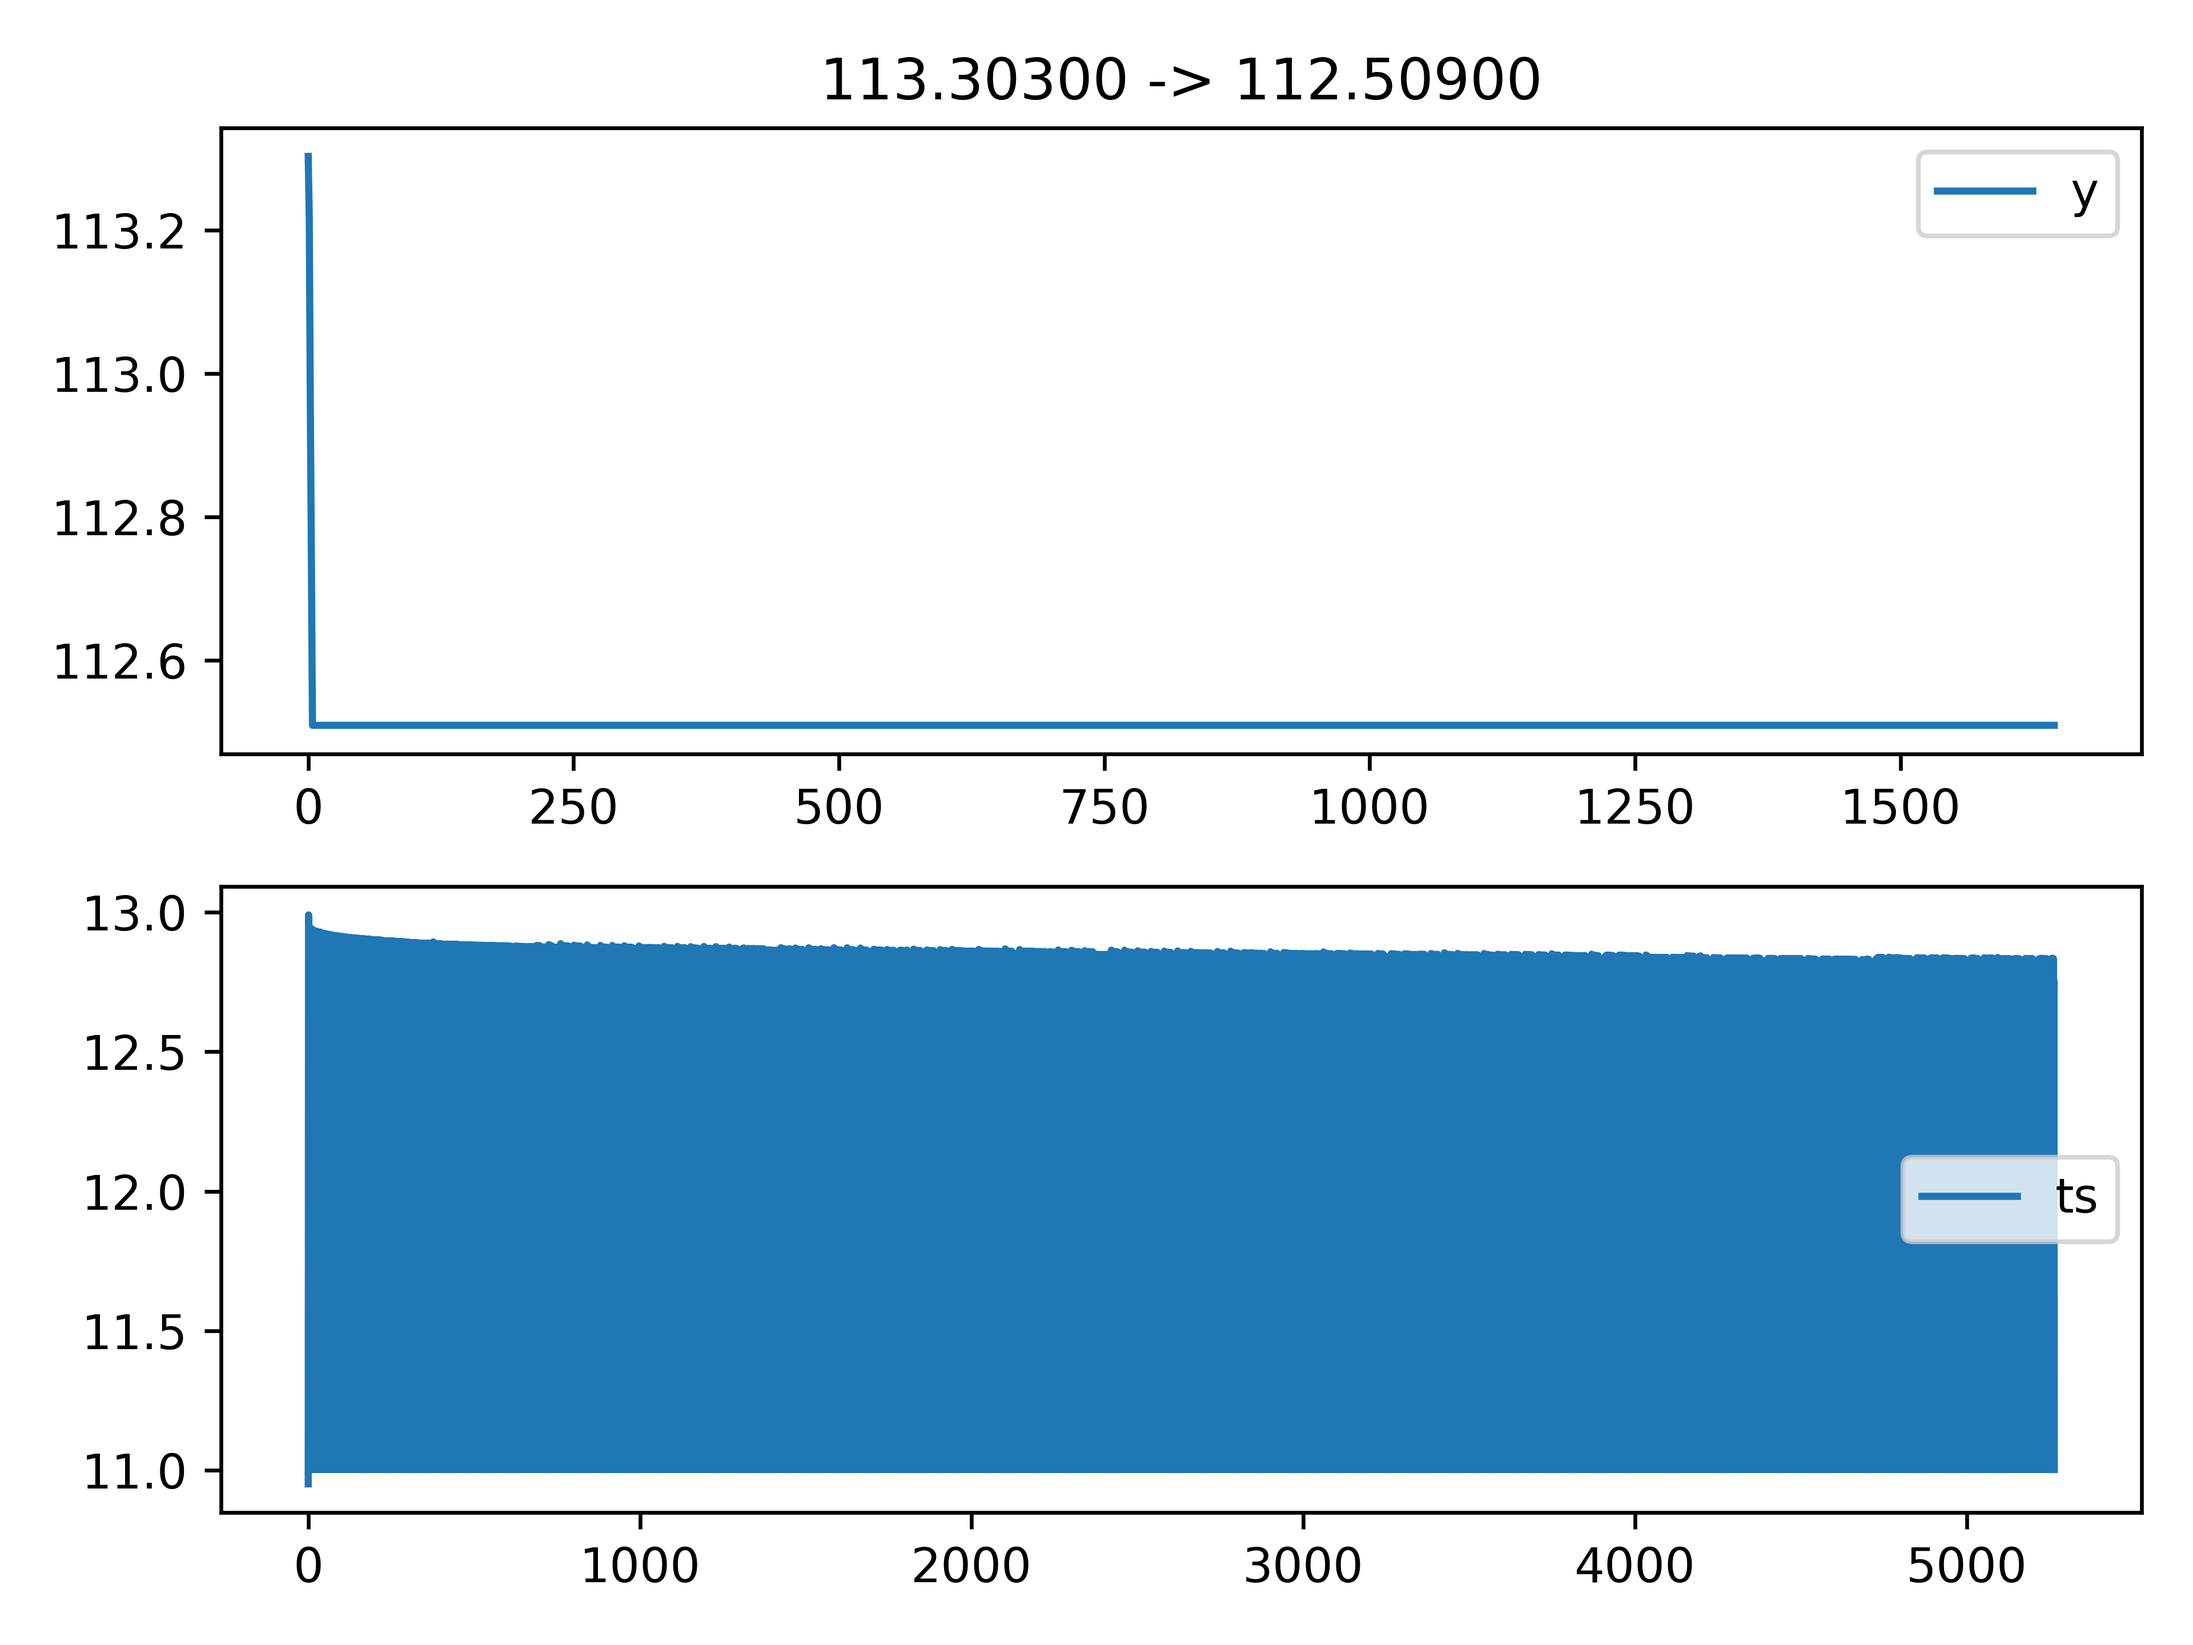
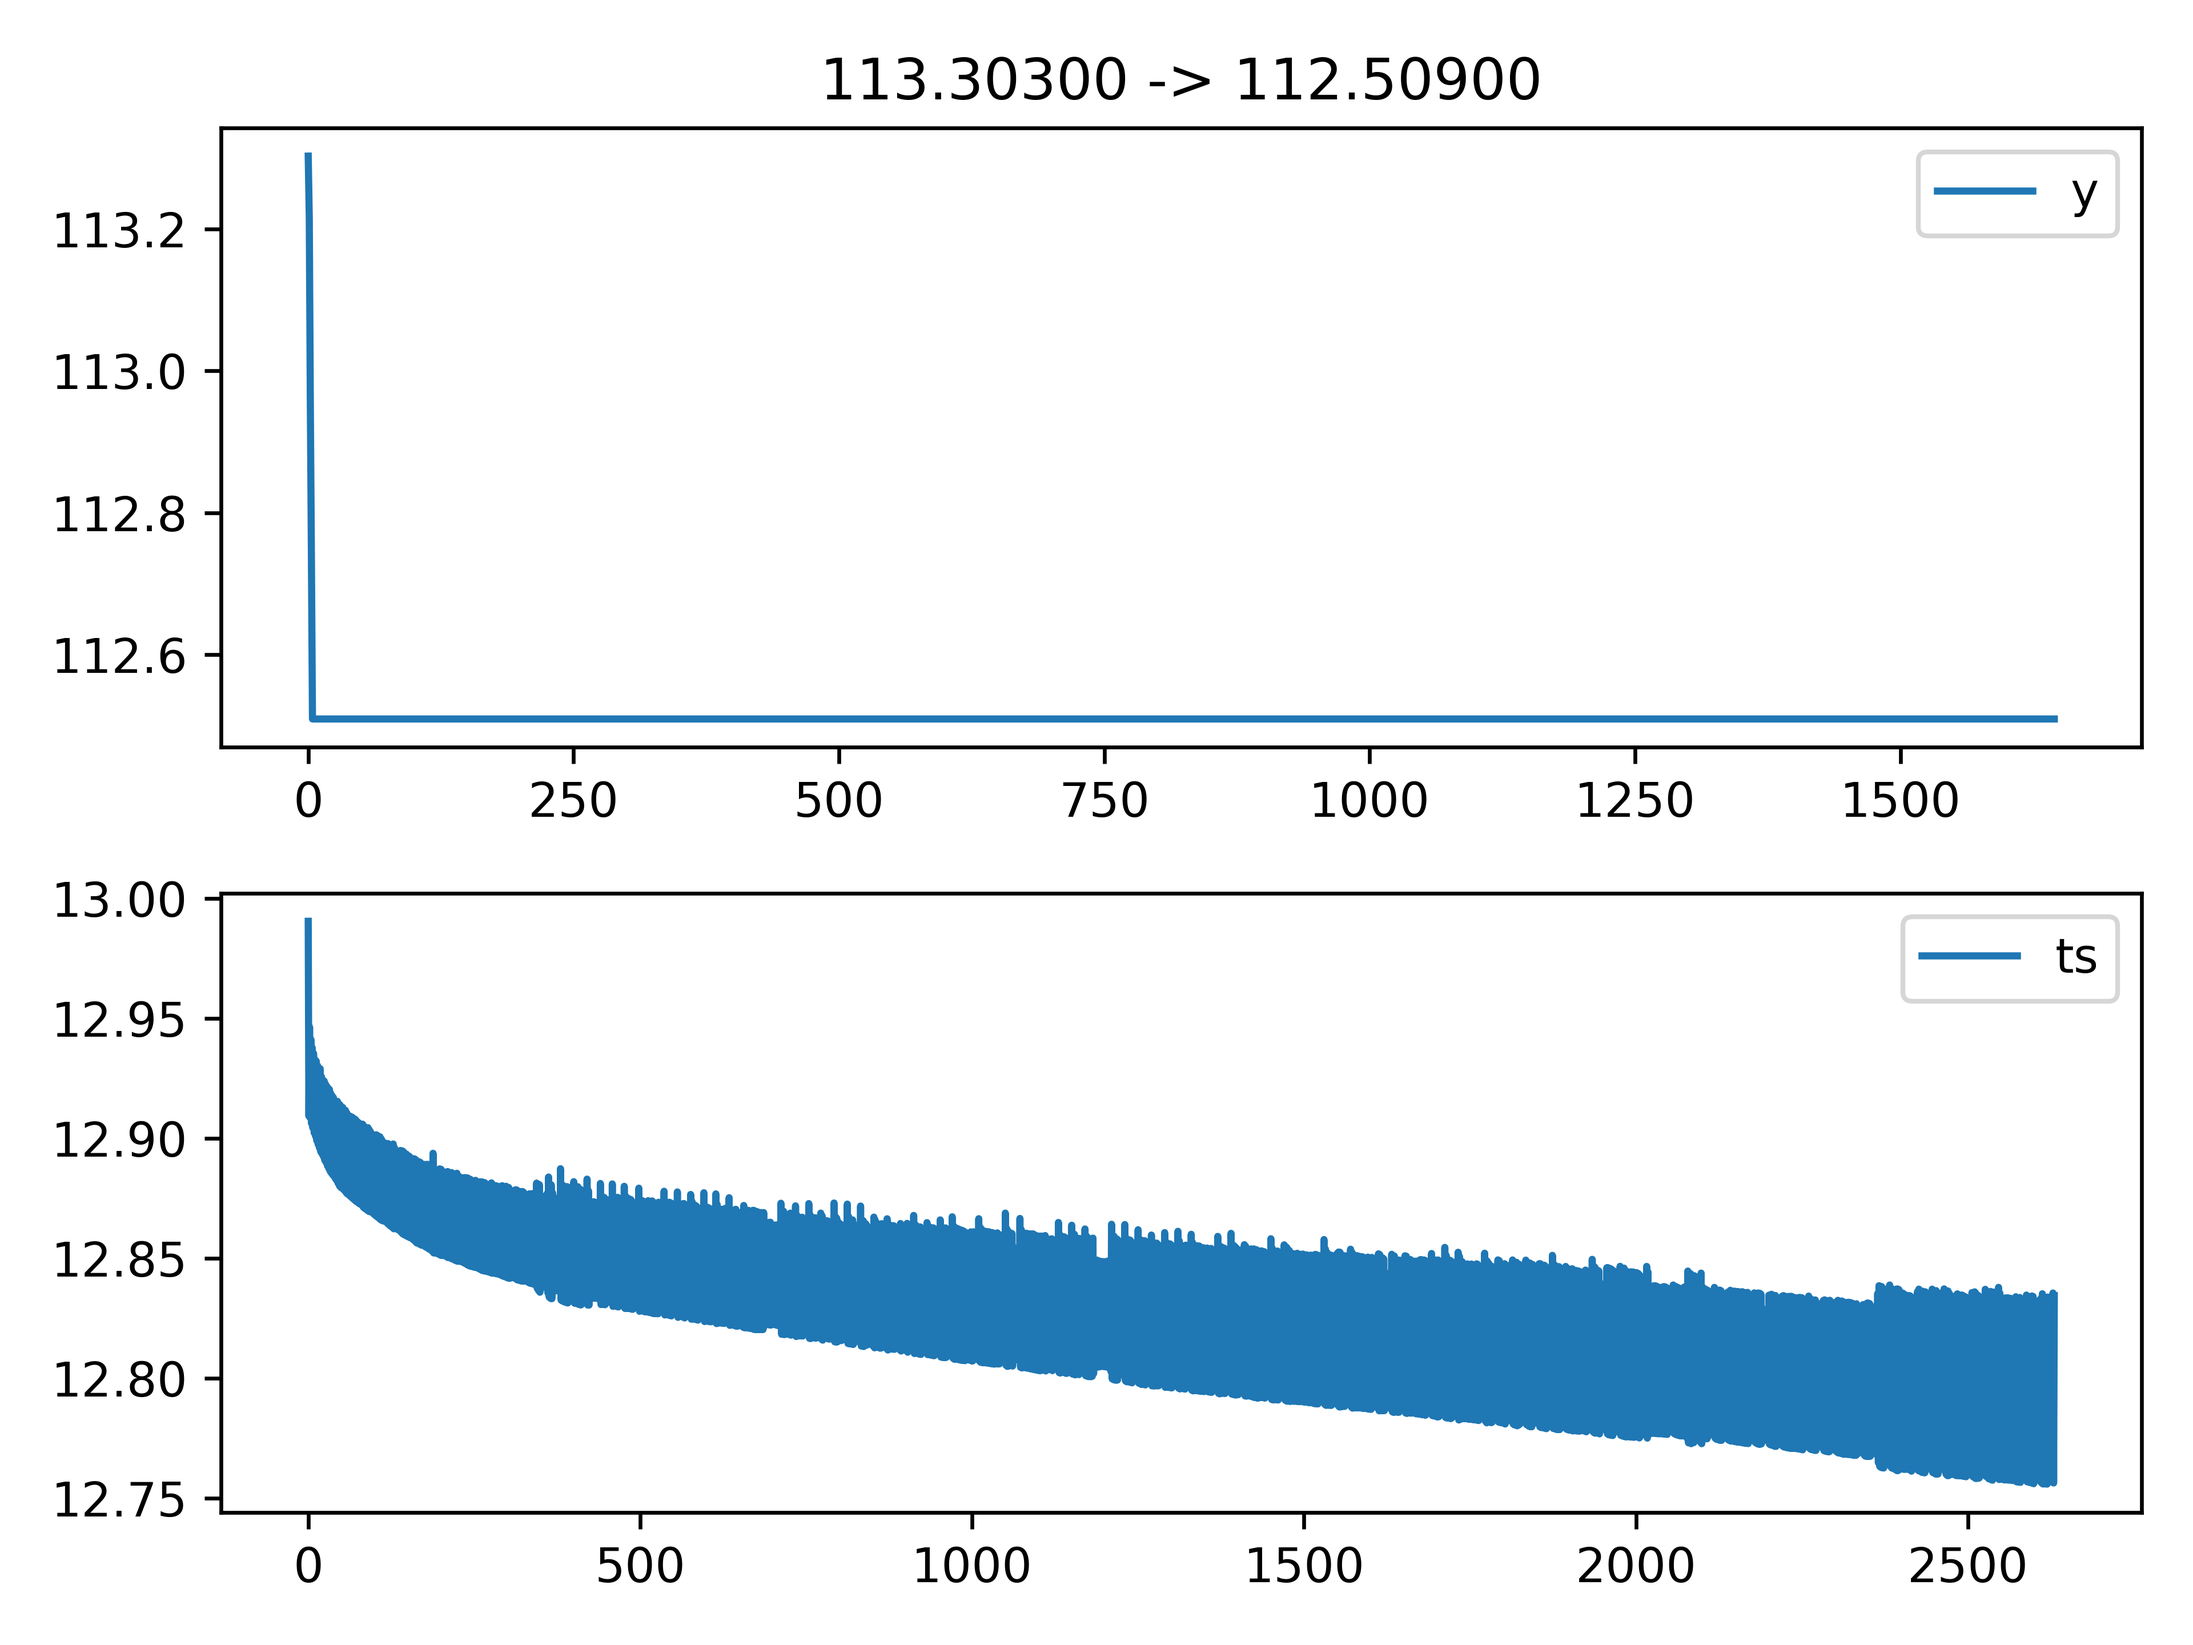
remove 静置 state, remove duplicated cid
score: 2.7473, rank: 33

diff --git a/lgb.py b/lgb.py
@@ -2,6 +2,8 @@
 # Author: Armit
 # Create Time: 2024/02/17
 
+from traceback import print_exc
+
 import lightgbm as lgb
 from lightgbm import Booster
 from sklearn.model_selection import KFold
@@ -16,32 +18,25 @@ LOG_DP = LOG_PATH / 'lgb'
 
 def make_feat_df(split:str, id:str) -> Tuple[DataFrame, List[str], str]:
   df_cyc, df_act = load_data(split, id)
-  if 'fix case M005':   # M005 最后的 ts 均为 0
-    if id == 'M005':
-      df_act = df_act[~((df_act['aid']==6) & (df_act['act']==0))]
   y = df_cyc['y'].to_numpy().round(N_PREC)
   df_joined = df_cyc.merge(df_act, how='inner', on='cid').sort_values(by=['cid', 'aid'])
   ts = df_joined['ts'].to_numpy().round(N_PREC)
   try:
-    n_ratio = len(ts) / len(y)
-    if n_ratio == N_ACTION_CYCLE:
-      ts = ts.reshape(-1, N_ACTION_CYCLE)
-    elif n_ratio == 3:  # M003 的第二个静置的 ts = 0
-      ts = ts.reshape(-1, 3)
-      ts = np.pad(ts, [(0, 0), (0, 1)])
+    ts = ts.reshape(-1, N_ACTION_CYCLE)
     assert len(y) == len(ts)
   except Exception as e:
-    print(f'>> length mismatch: len(ts) / len(y) = {len(ts)} / {len(y)} = {n_ratio}')
+    print(f'>> length mismatch: len(ts) / len(y) = {len(ts)} / {len(y)} = {len(ts) / len(y)}')
     breakpoint()
     raise ValueError from e
-  nlen = len(y)
 
   X, Y = [], []
-  for i in range(N_WIN, nlen-1):
+  nlen = len(y)
+  for i in range(N_WIN, nlen):
+    # 当前步数 + 前5步容量 + 前5步容量差分 + 前五步充放电时长 -> 当前容量
     val = y[i-N_WIN:i]
     val_prime = val[1:] - val[:-1]
     acts = ts[i-N_WIN:i]
-    tgt = y[i+1]
+    tgt = y[i]
     X.append(np.concatenate([[i], val, val_prime, acts.flatten()], axis=0))
     Y.append(tgt)
   X = np.stack(X, axis=0)
@@ -148,7 +143,7 @@ def run_infer(model:Booster, split:str, id:str):
   y_true = df_cyc['y'].to_numpy()
   df_cyc, df_act = load_data(split, id, rpad_test=True)
   y_true_rpad = df_cyc['y'].to_numpy()
-  
+
   max_cid = df_cyc['cid'].max().item()
   len_y = len(y_true)
   if max_cid != len_y:
@@ -163,7 +158,7 @@ def run_infer(model:Booster, split:str, id:str):
     y_pred.append(y_true[i])
   v5 = y_pred[-N_WIN:]    # init state
   vp4 = [y - x for x, y in zip(v5[:-1], v5[1:])]
-  for k in tqdm(range(N_WIN, len(feat_df))):
+  for k in tqdm(range(len(feat_df))):
     cur = feat_df.iloc[k]
     for i in range(0, N_WIN):
       cur[f'v_{i+1}'] = v5[i]
@@ -215,5 +210,8 @@ if __name__ == '__main__':
     for id in ids:
       try:
         run_infer(model, split, id)
+      except KeyboardInterrupt:
+        exit(-1)
       except:
+        print_exc()
         print(f'>> failed: {split}-{id}')

diff --git a/mk_data.py b/mk_data.py
@@ -47,16 +47,43 @@ def process_xlsx(wb:Workbook) -> List[DataFrame]:
     column_names = list(df.iloc[df.index[0]])
     df.drop(index=df.index[0], axis=0, inplace=True)  # ignore fist row for labels
     df.columns = column_names
+
+    # de-dup (do not know why)
+    df.drop_duplicates(inplace=True)
+
+    if 'fix case M008':
+      if df.loc[1, '循环号'] is None:
+        df.loc[1, '循环号'] = 0
+    df = df[~(df['循环号'] == '0')]     # ignore cid=0
+    df['循环号'] = df['循环号'].astype(np.uint32)
+    if '工步状态' in list(df.columns):
+      df = df[~(df['工步状态'] == '静置')]  # ignore all 静置
+
     if name == '循环数据':              # 一系列工步组成一个循环，记录该过程的放电容量
       assert not len(df_cycle)
-      df = df[~(df['循环号'] == '0')]   # ignore begining 静置
+
+      # dedup (use hidden truth data :)
+      cid_list = df['循环号'].to_numpy().tolist()
+      if len(cid_list) != len(set(cid_list)):
+        print('len(list(cid)):', len(cid_list))
+        print('len(set(cid)):', len(set(cid_list)))
+        rows = []
+        for cid, grp in df.groupby(by='循环号'):
+          if len(grp) == 1:
+            rows.append(grp)
+          elif len(grp) == 2:
+            grp_sel = grp[~grp['放电容量/Ah'].isna()]
+            assert len(grp_sel) == 1
+            rows.append(grp_sel)
+          else:
+            print('len(grp):', len(grp))
+            breakpoint()
+        df = pd.concat(rows, axis=0)
+
       df_cycle['cid'] = df['循环号'].astype(np.uint32)
       df_cycle['y']   = df['放电容量/Ah'].astype(np.float32).fillna(-1).round(3)  # fillna for testset
     elif name == '工步数据':            # 一系列时刻组成一个工步，对应单一的操作状态
       assert not len(df_action)
-      if 'fix case M008':
-        if df.loc[1, '循环号'] is None:
-          df.loc[1, '循环号'] = 0
       df_action['cid'] = df['循环号'].astype(np.uint32)
       df_action['aid'] = df['工步号'].astype(np.uint32)
       df_action['act'] = df['工步状态'].map(ACTION_STATUS).astype(np.uint8)
@@ -127,7 +154,10 @@ def process_cache():
       try:
         with zf.open(zinfo) as fh:
           wb = XlsxFile(fh, read_only=True, keep_vba=False, data_only=True)
-          data = process_xlsx(wb)
+          df_cycle, df_action = process_xlsx(wb)
+          print(df_cycle)
+          print(df_action)
+          data = df_cycle, df_action
         with open(fp_out, 'wb') as fh:
           pkl.dump(data, fh)
       except KeyboardInterrupt:

diff --git a/data.py b/data.py
@@ -41,14 +41,14 @@ def _smooth_y(df_cyc:DataFrame, id:str) -> ndarray:
       x[i] *= 10
   df_cyc['y'] = x
 
-  local_mean = lambda i: (x[i-1] + x[i+1]) / 2
+  local_mean = lambda x, i: (x[i-1] + x[i+1]) / 2
 
   # fix known abnormals
   if id == 'M012':
     x = df_cyc['y'].to_numpy()
     for i in range(len(x)):
       if 77.430 < x[i] < 77.450:  # 77.440
-        x[i] = local_mean(i)
+        x[i] = local_mean(x, i)
     df_cyc['y'] = x
   if id == 'M003':
     x = df_cyc['y'].to_numpy()
@@ -56,15 +56,15 @@ def _smooth_y(df_cyc:DataFrame, id:str) -> ndarray:
       if 1.048 < x[i] < 1.068:  # 1.058
         x[i] *= 100
       if 0.374 < x[i] < 0.394:  # 0.384
-        x[i] = local_mean(i)
+        x[i] = local_mean(x, i)
     df_cyc['y'] = x
 
   # mean filter for potential abnormals
   x = df_cyc['y'].to_numpy()
   for i in range(1, len(x)-1):
-    mean = local_mean(i)
+    mean = local_mean(x, i)
     diff = abs(x[i] - mean)
-    if diff > 1:    # MAGIC: better way?
+    if diff > 0.5:    # MAGIC: better way?
       x[i] = mean
   df_cyc['y'] = x
 
@@ -80,7 +80,20 @@ def _rpad_y(df_cyc:DataFrame) -> ndarray:
   return df_cyc
 
 def _log1p_ts(df_act:DataFrame) -> DataFrame:
+  # vrng renorm
   df_act['ts'] = np.log1p(df_act['ts'].to_numpy())
+
+  local_mean = lambda x, i: (x[i-1] + x[i+1]) / 2
+
+  # mean filter for potential abnormals
+  x = df_act['ts'].to_numpy()
+  for i in range(1, len(x)-1):
+    mean = local_mean(x, i)
+    diff = abs(x[i] - mean)
+    if diff > 0.5:    # MAGIC: better way?
+      x[i] = mean
+  df_act['ts'] = x
+
   return df_act
 
 

diff --git a/utils.py b/utils.py
@@ -25,8 +25,8 @@ IMG_PATH = BASE_PATH / 'img' ; IMG_PATH.mkdir(exist_ok=True)
 LOG_PATH = BASE_PATH / 'log' ; LOG_PATH.mkdir(exist_ok=True)
 SUBMIT_PATH = LOG_PATH / 'submit.csv'
 
-# 一个循环: 恒流转恒压充电 -> 静置 -> 恒流放电 -> 静置 (1-0-2-0)
-N_ACTION_CYCLE = 4
+# 一个循环: 恒流转恒压充电 -> [静置] -> 恒流放电 -> [静置] (1-0-2-0), 但忽略所有 静置-0
+N_ACTION_CYCLE = 2
 ACTION_STATUS = {
   '静置': 0,
   '恒流转恒压充电': 1,

diff --git a/mk_submit.py b/mk_submit.py
@@ -24,7 +24,8 @@ def run(args):
     fp = dp / f'{split}-{id}.txt'
     data = np.loadtxt(fp)
     nlen = len(data)
-    print(f'>> [{id}] expect: {EXPACTED_LENTH[id]}, got: {nlen}')
+    if nlen != EXPACTED_LENTH[id]:
+      print(f'>> [{id}] expect: {EXPACTED_LENTH[id]}, got: {nlen}')
 
     df = DataFrame()
     df['电池编号'] = [id] * nlen

diff --git a/stats.py b/stats.py
@@ -11,7 +11,7 @@ def stats_single():
   for split, ids in DATA_FILES.items():
     for id in ids:
       df_cyc, df_act = load_data(split, id, rpad_test=True)
-      print(df_cyc)
+      #print(df_cyc)
       #print(df_act)
 
       y = df_cyc['y'].to_numpy()
